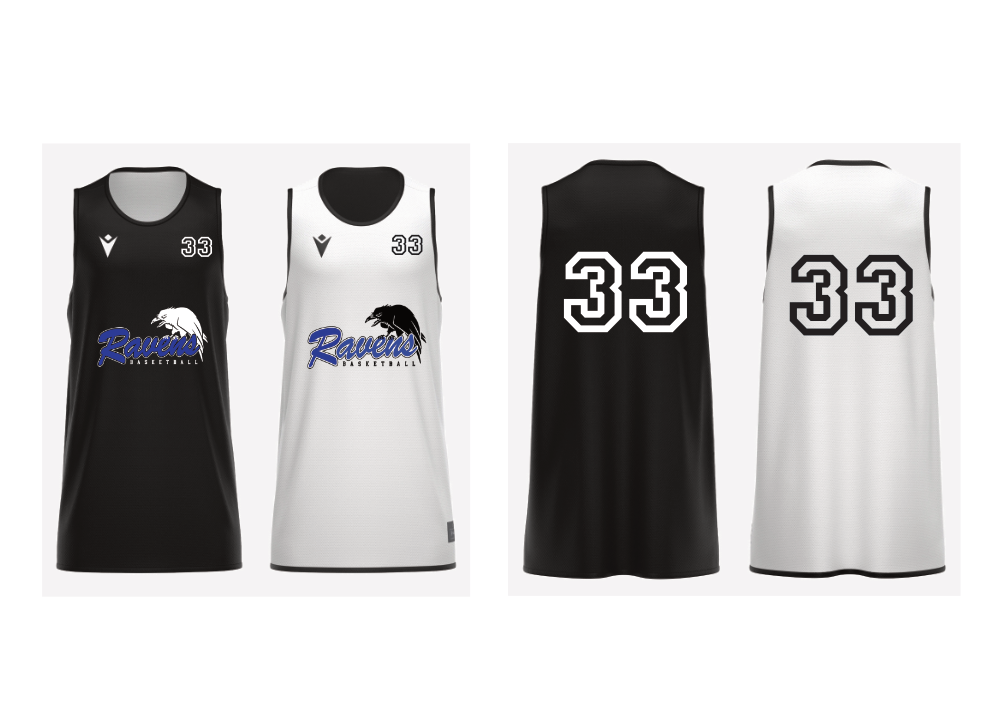
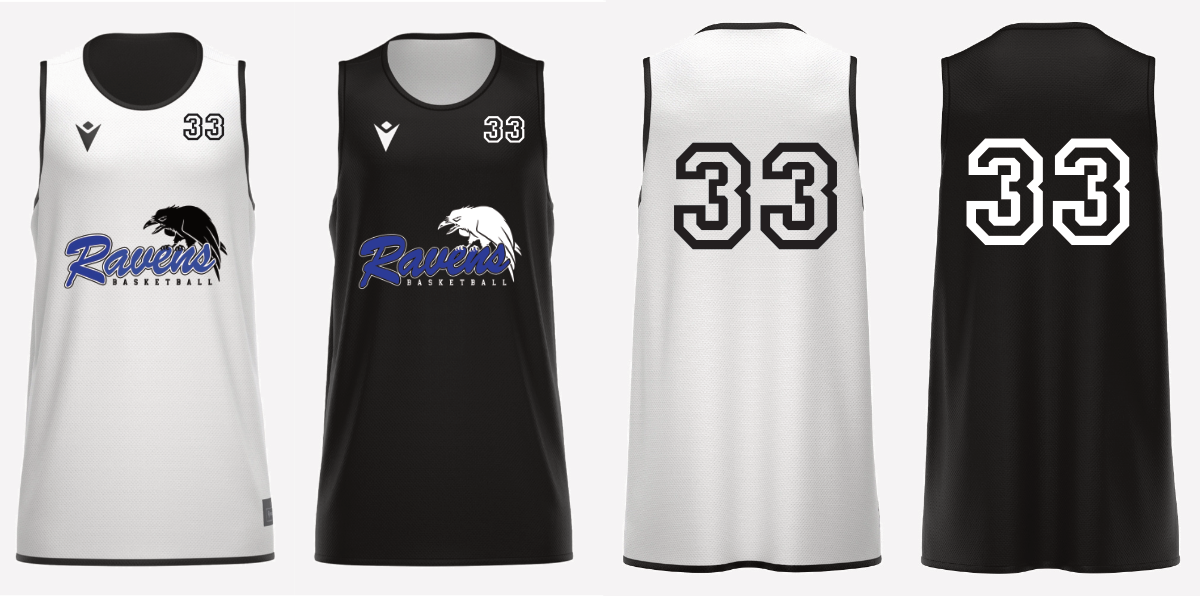
Updated content

diff --git a/src/index.md b/src/index.md
@@ -1,6 +1,6 @@
 ---
 layout: default.html
-title:
+date: git Last Modified
 ---
 
 # Club Information
@@ -39,5 +39,5 @@ Then take the first right down into the car park. The sports hall entrance is on
 
 <figure>
 	<img alt="Ravens Home and Away Kit" src="/assets/images/home-away-kit.png" />
-	<figcaption>Home - Black | Away - White</figcaption>
+	<figcaption>Home - White | Away - Black</figcaption>
 </figure>

diff --git a/src/fixtures/index.md b/src/fixtures/index.md
@@ -1,6 +1,7 @@
 ---
-layout: default.html
 title: Fixtures
+layout: default.html
+date: git Last Modified
 ---
 
 # Fixtures

diff --git a/src/players/index.md b/src/players/index.md
@@ -1,6 +1,7 @@
 ---
-layout: default.html
 title: Players
+layout: default.html
+date: git Last Modified
 ---
 
 # Players

diff --git a/src/fixtures/2025.md b/src/fixtures/2025.md
@@ -1,6 +1,7 @@
 ---
-layout: default.html
 title:
+layout: default.html
+date: git Last Modified
 ---
 
 # 2025 Fixtures
